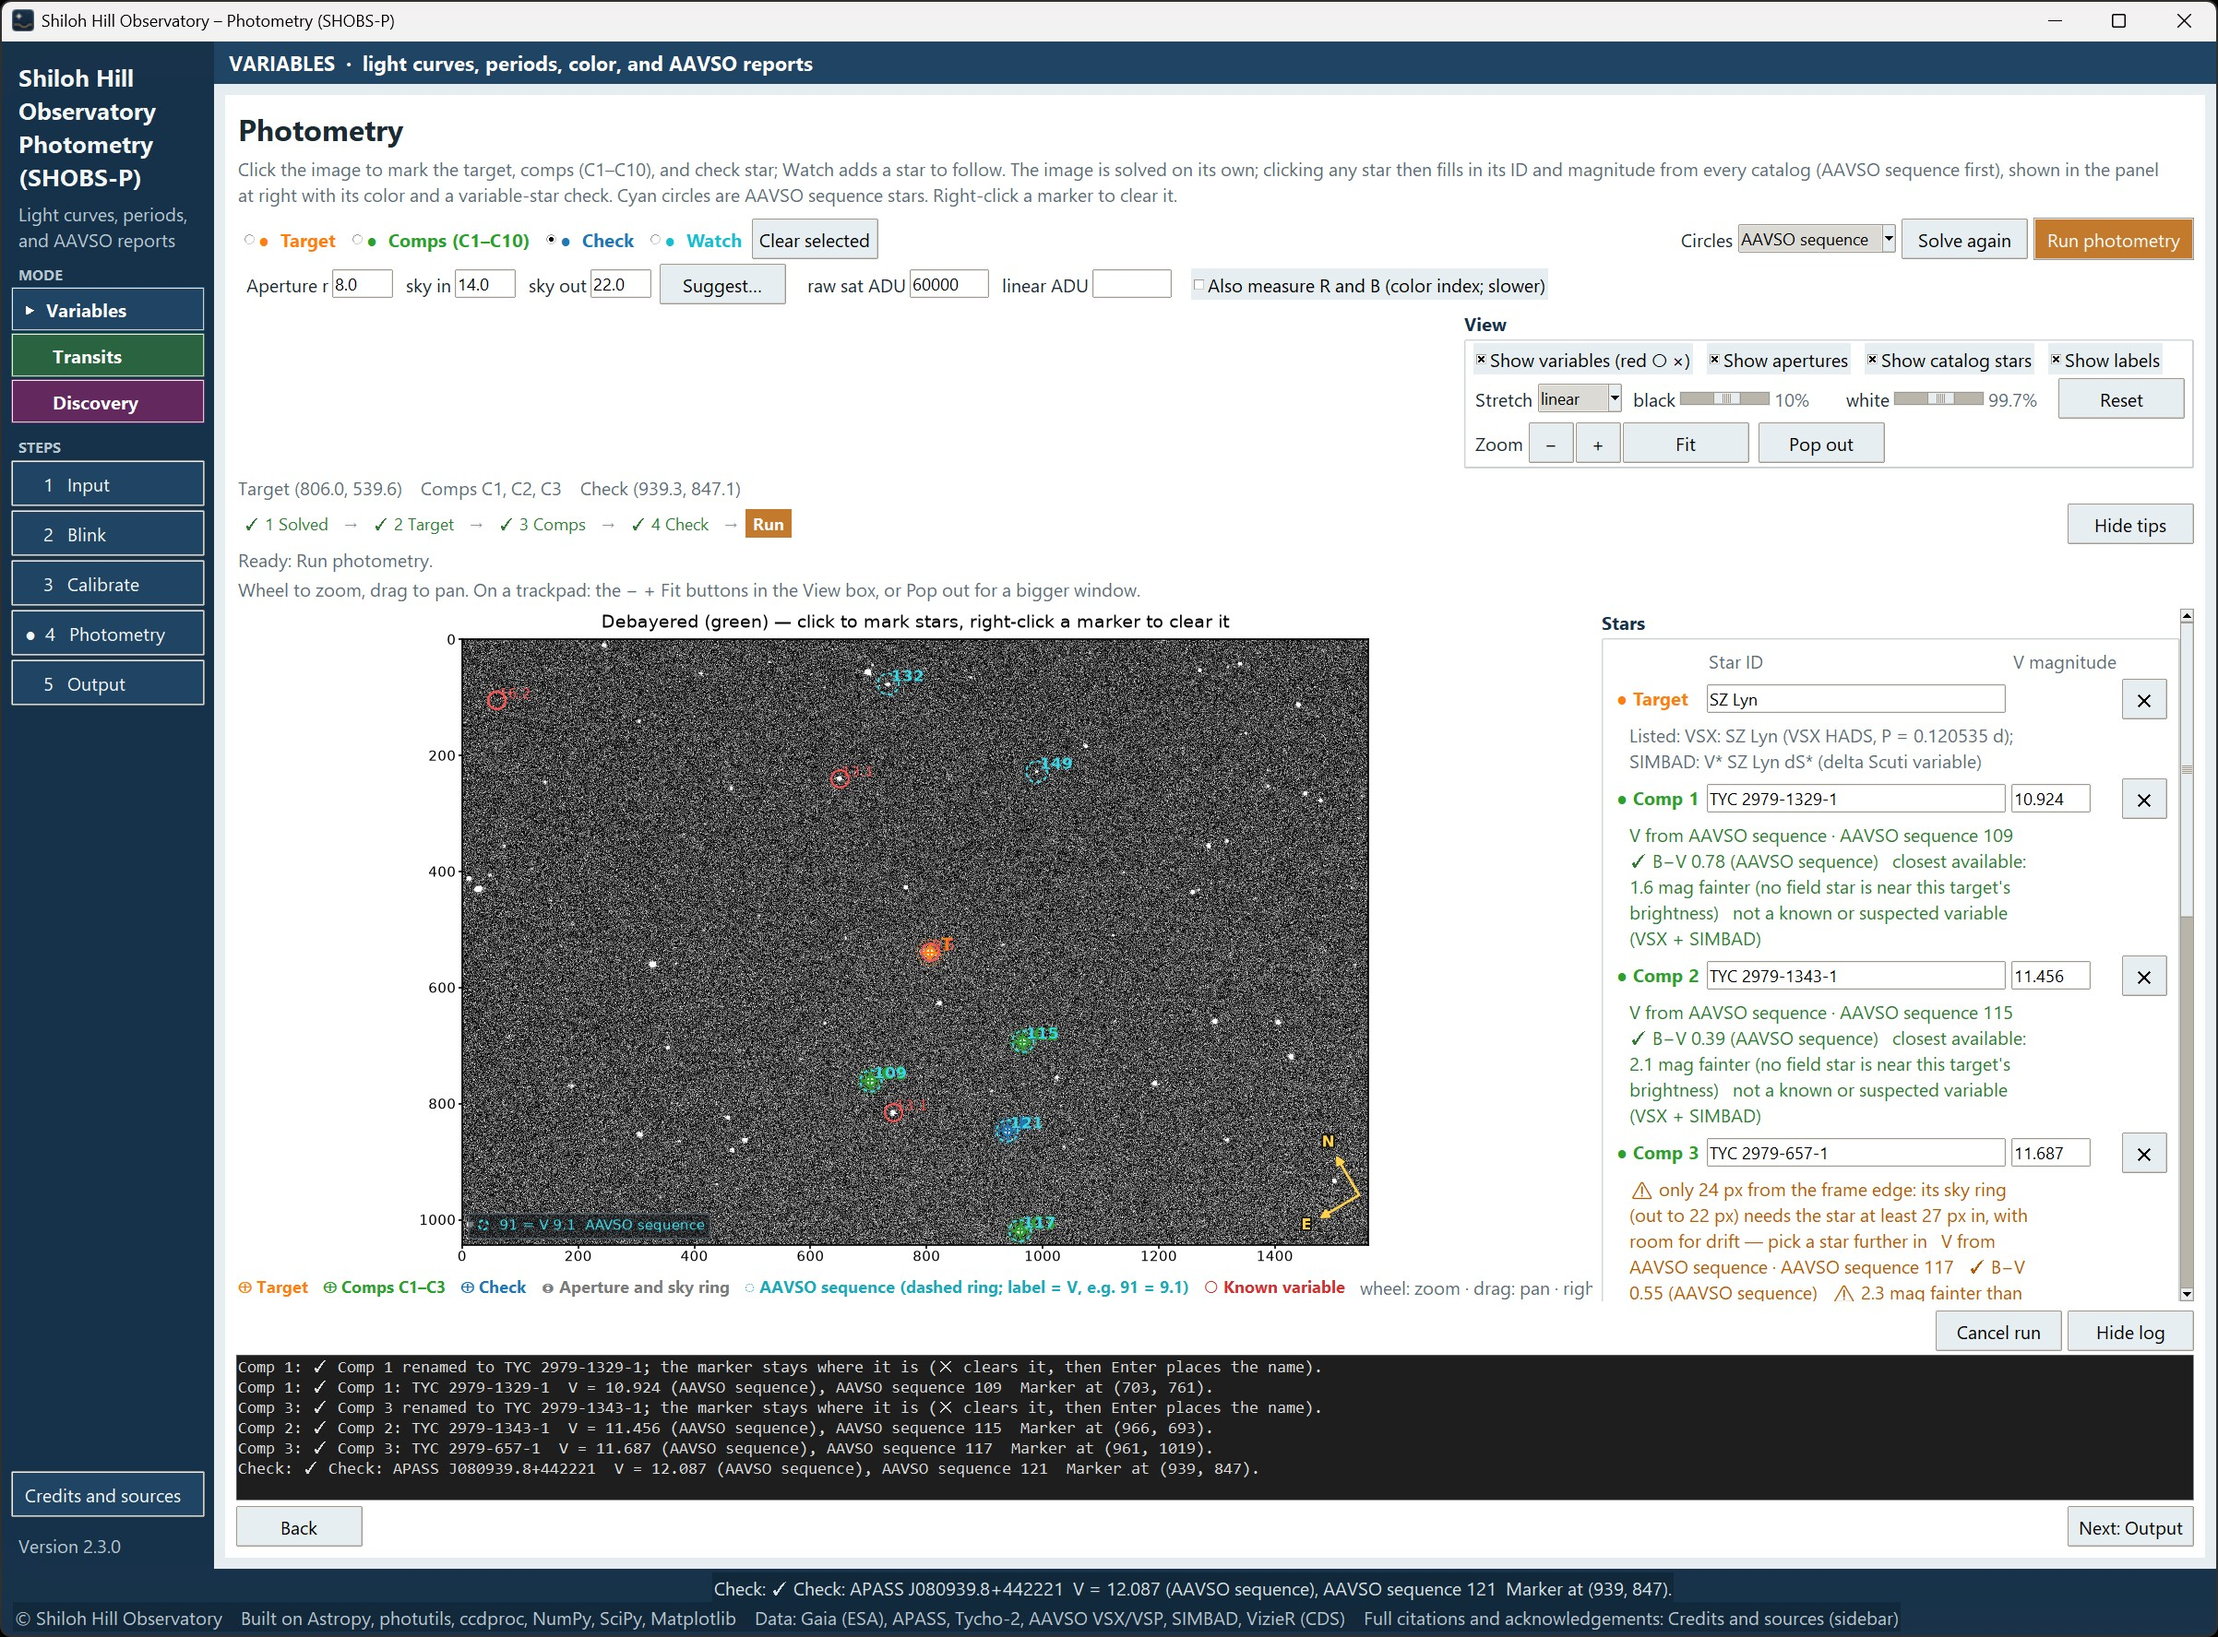
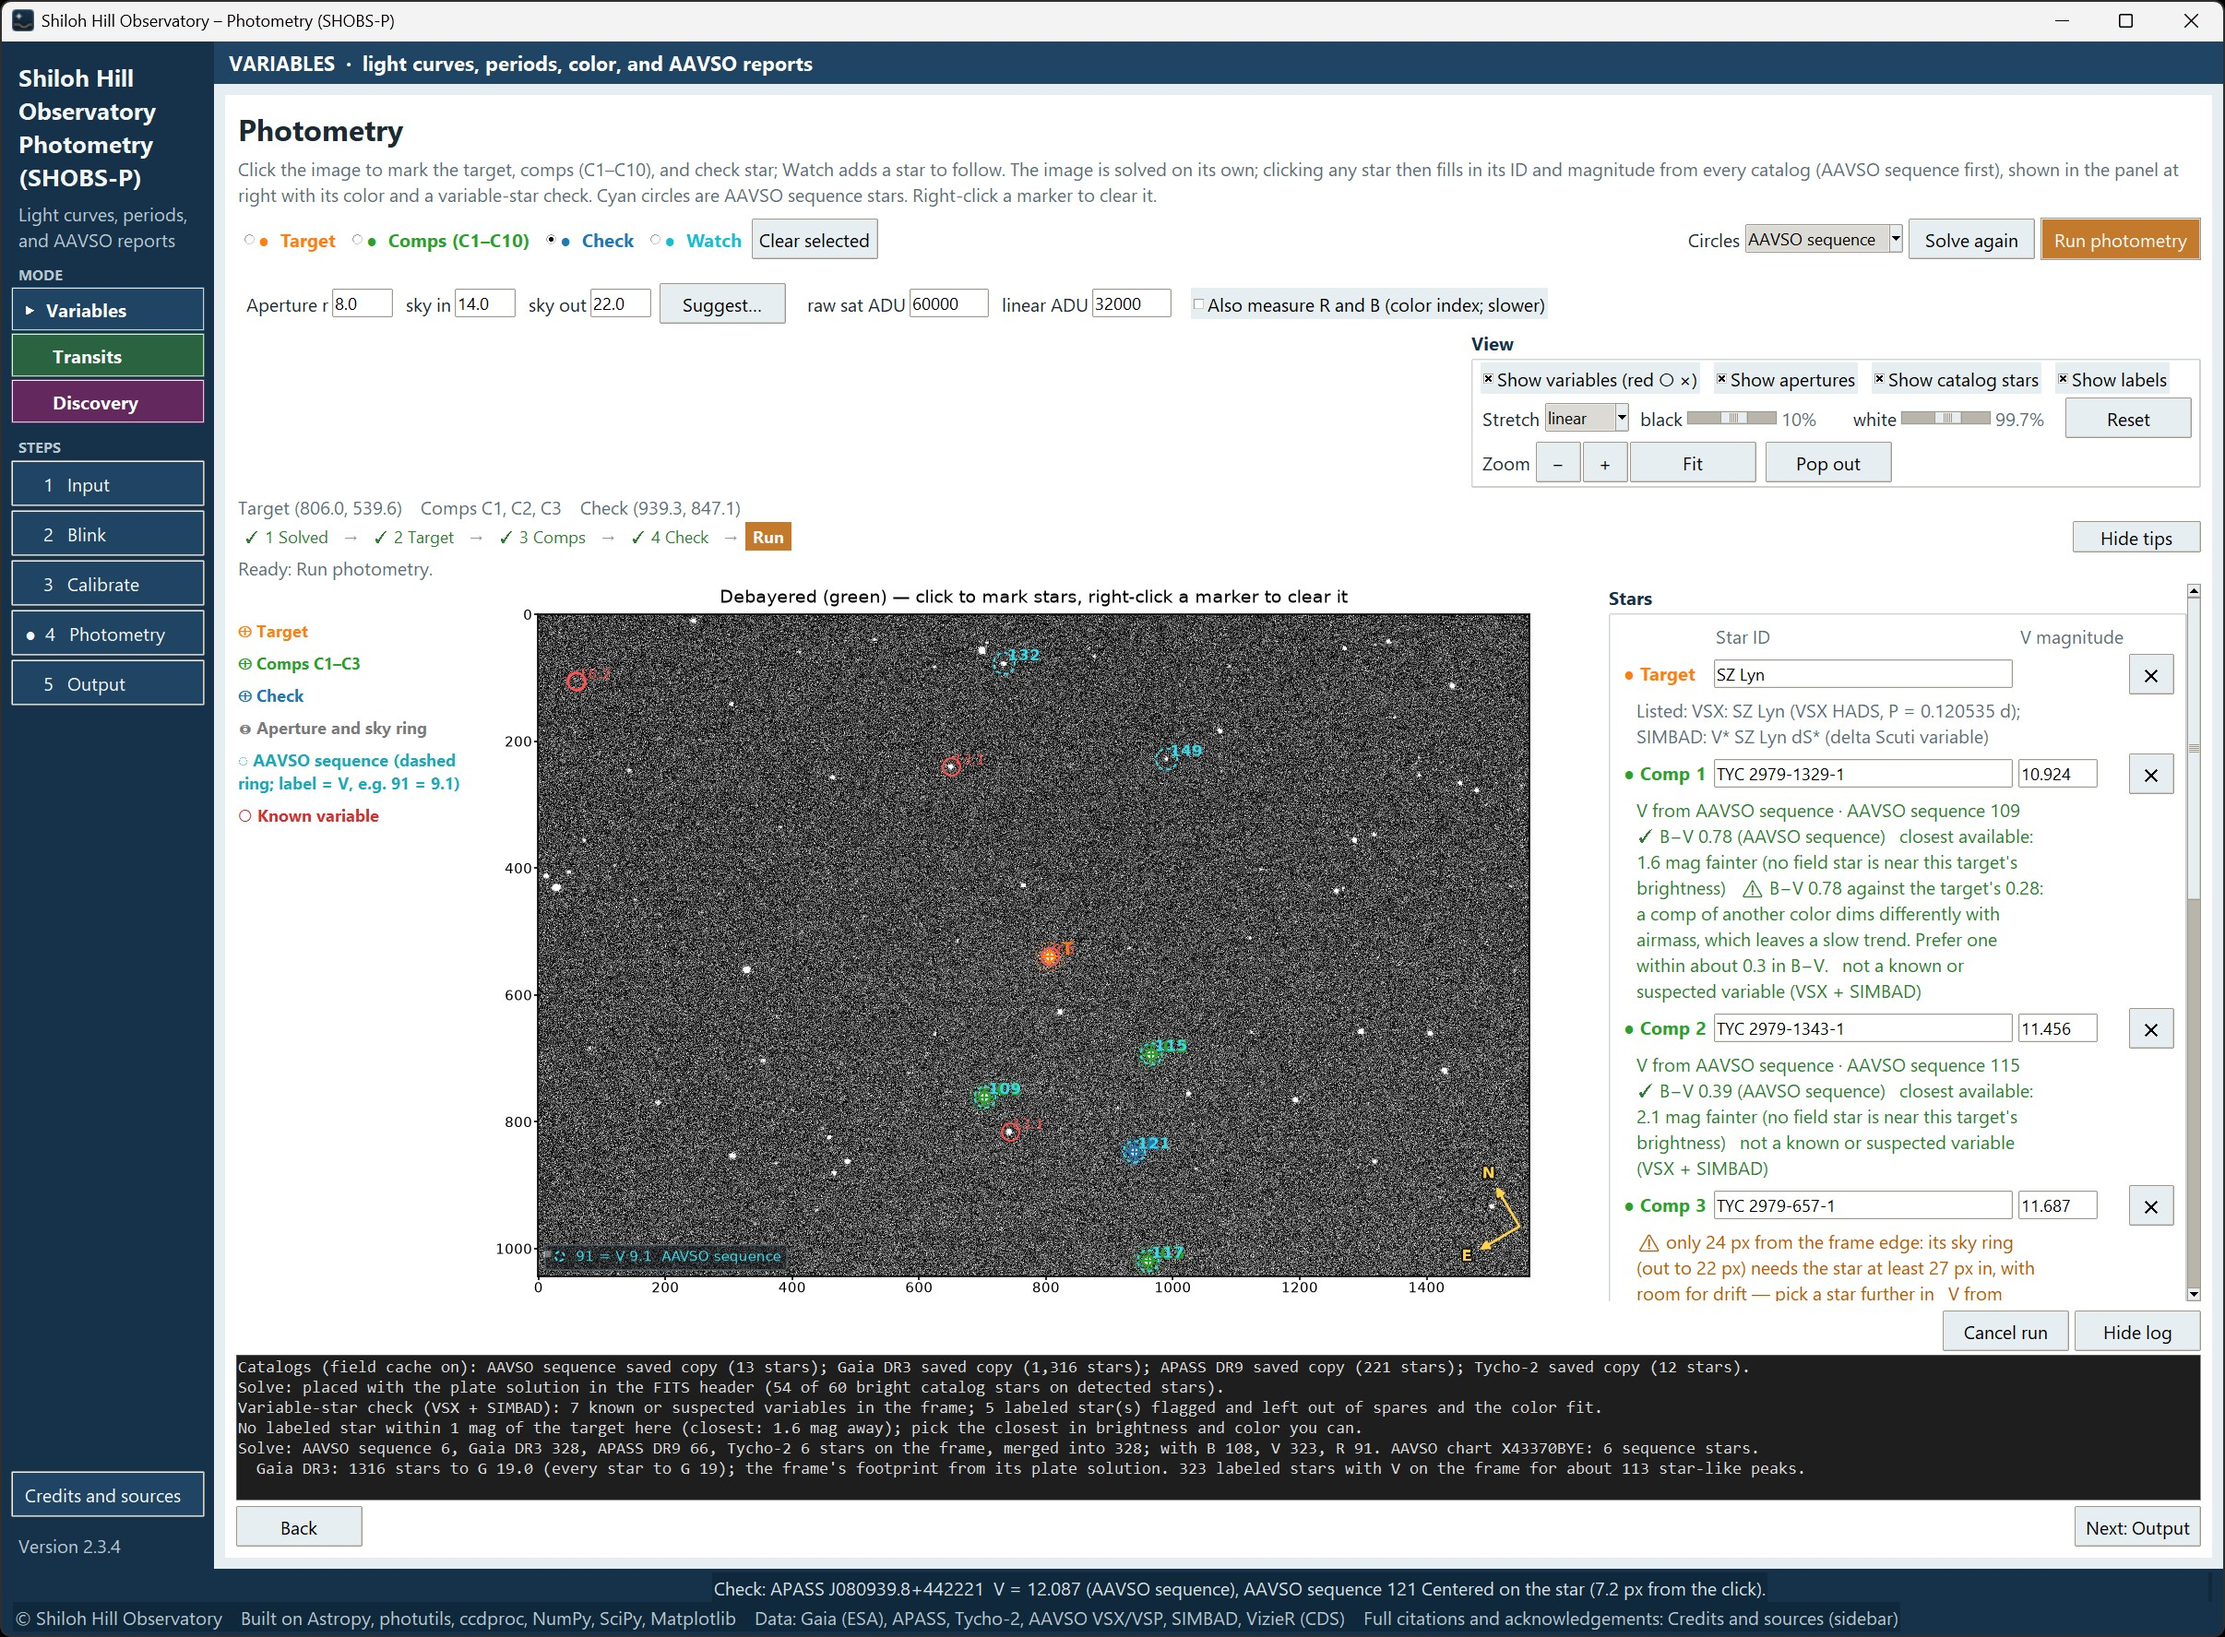
2.3.4 manual: reshoots 08-stars-panel (loaded series, comps placed after the solve), 08-photometry-solved, 09-marked-stars, 11-comp-health, NEW 10-colour-box; captions
Claude-Session: https://claude.ai/code/session_01FUz9tJFSFwrNKDPS63DsJr

diff --git a/docs/manual/README.md b/docs/manual/README.md
@@ -18,8 +18,8 @@ parameter; pier sides within 10°; Calibrate runs the Scan folders checks; a roo
 Create shortcut.command) and for 2.3.3 (damaged catalog answers turned away; the new-version check; the Export window's result line; Time of max/min listing the saved times, with Elements from saved times) and for 2.3.4 (series comps and check placed after the solve; markers that follow a new reference frame; Comp health zero points; the fit CSV's raw error column; how S1–S4 are chosen; starting a new series), checked against the program. Screenshots were retaken on 2.3.0
 > wherever the page or its version line changed, and on 2.3.2 for the pages 2.3.2 changed (the Photometry page, the
 > Transit fit page and the WebObs offer), and on 2.3.3 for the pages 2.3.3 changed (the Credits page and the Time of
-> maximum / minimum window), and on 2.3.4 for the pages 2.3.4 changed (the Photometry page's Stars panel and
-> suggestion lines, the Comp health window, the Colour box).
+> maximum / minimum window), and on 2.3.4 for the pages 2.3.4 changed (the Photometry page and its Stars panel,
+> the Comp health window, and the Also measure R and B setting).
 > Each chapter is its own file in this folder; this page is the table of contents.
 
 ## Part 1 — Getting to know SHOBS-P

diff --git a/docs/manual/08-photometry-basics.md b/docs/manual/08-photometry-basics.md
@@ -186,7 +186,7 @@ choice.
 You mark stars by choosing what a click means (**● Target**, **● Comps (C1–C10)**, **● Check** or **● Watch**), then
 clicking the star on the image.
 
-![The Stars panel with a target, three comparison stars and a check star filled in](img/08-stars-panel.png)
+![The Stars panel on a loaded series: target, two comparison stars and the check star placed after the solve, magnitudes kept as loaded](img/08-stars-panel.png)
 
 ### The target
 

diff --git a/docs/manual/11-check-your-comparison-stars.md b/docs/manual/11-check-your-comparison-stars.md
@@ -21,7 +21,7 @@ With two or more nights, the plot shows each star's nightly median, relative to 
 
 Click a row in the table to highlight that star's curve.
 
-![The Comparison star health window for a multi-night series, one SUSPECT comp](img/11-comp-health.png)
+![The Comparison star health window for a multi-night series, with some spares marked SUSPECT](img/11-comp-health.png)
 
 ### The table
 

diff --git a/docs/manual/10-build-a-multi-night-series.md b/docs/manual/10-build-a-multi-night-series.md
@@ -21,7 +21,7 @@ The first night sets the rules for every night after it. Changing the aperture, 
 
 ![The aperture suggestion (Suggest…)](img/08-suggest-apertures.png)
 
-![The Colour box with Also measure R and B ticked](img/10-colour-box.png)
+![The Photometry page settings row with Also measure R and B ticked](img/10-colour-box.png)
 
 ## Start a series
 
